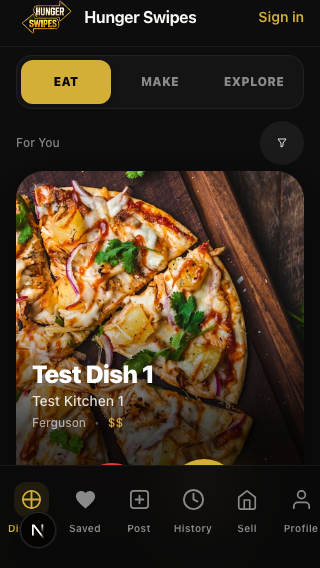
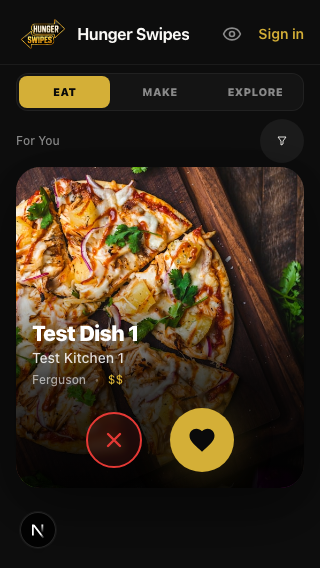
test(recovery): lock Build 15 UX and release state

diff --git a/tests/launch-recovery.test.ts b/tests/launch-recovery.test.ts
@@ -14,12 +14,31 @@ test('mobile shell exposes exactly one primary navigation element', () => {
   assert.match(nav, /data-testid="mobile-nav"/)
 })
 
+test('Build 15 profile keeps the two-column dashboard tiles', () => {
+  const account = read('../app/account/page.tsx')
+  assert.match(account, /Your dashboard/)
+  assert.match(account, /grid grid-cols-2 gap-3/)
+  for (const label of ['Food Profile', 'Preferences', 'Saved', 'Swipe Bucks', 'History']) {
+    assert.match(account, new RegExp(`label=["']${label}["']`))
+  }
+})
+
+test('Build 15 post flow keeps post type, place, address, photo, and dish details', () => {
+  const post = read('../app/post/page.tsx')
+  assert.match(post, /What are you posting\?/)
+  assert.match(post, /Restaurant dish/)
+  assert.match(post, /My own food/)
+  assert.match(post, /places\/address-search/)
+  assert.match(post, /handlePickPhoto/)
+  assert.match(post, /dishName/)
+})
+
 test('right swipe countdown is visible, timed, and advances the deck', () => {
   const swipe = read('../app/swipe/page.tsx')
-  assert.match(swipe, /RIGHT_SWIPE_COUNTDOWN_SECONDS = 5/)
-  assert.match(swipe, /data-testid="countdown-number"/)
+  assert.match(swipe, /MATCH_CONFIRMATION_SECONDS = 15/)
+  assert.match(swipe, /Next dish in <span data-testid="countdown-number">\{matchCountdown\}<\/span>/)
   assert.match(swipe, /setMatchCountdown\(\(seconds\) => seconds - 1\)/)
-  assert.match(swipe, /if \(matchCountdown <= 1\) doAdvance\(\)/)
+  assert.match(swipe, /if \(matchCountdown <= 0\) \{\s*setMatchDish\(null\)/)
   assert.match(swipe, /setCurrentIndex\(\(index\) => index \+ 1\)/)
 })
 

diff --git a/app/swipe/page.tsx b/app/swipe/page.tsx
@@ -608,7 +608,7 @@ export default function SwipePage() {
         </div>
       )}
       {matchDish && (
-        <div className="fixed inset-0 z-50 flex items-center justify-center bg-black/70 backdrop-blur-sm px-4" role="dialog" aria-modal="true" aria-labelledby="saved-title">
+        <div className="fixed inset-0 z-50 flex items-center justify-center bg-black/70 backdrop-blur-sm px-4" role="dialog" aria-modal="true" aria-labelledby="saved-title" data-testid="swipe-countdown">
           <div
             className="bg-hs-charcoal rounded-[2rem] p-6 text-center border border-white/[0.08] shadow-card-lg w-full max-w-sm"
           >
@@ -626,7 +626,7 @@ export default function SwipePage() {
             </div>
             <div className="rounded-2xl bg-hs-soft/70 px-4 py-3 mb-4" aria-live="polite">
               <p className="text-sm font-bold text-hs-cream">
-                {matchPaused ? 'Paused — take your time.' : `Next dish in ${matchCountdown} second${matchCountdown === 1 ? '' : 's'}`}
+                {matchPaused ? 'Paused — take your time.' : <>Next dish in <span data-testid="countdown-number">{matchCountdown}</span> second{matchCountdown === 1 ? '' : 's'}</>}
               </p>
               {!matchPaused && <div className="mt-2 h-1.5 overflow-hidden rounded-full bg-black/30"><div className="h-full bg-hs-gold transition-[width] duration-1000 ease-linear" style={{ width: `${(matchCountdown / MATCH_CONFIRMATION_SECONDS) * 100}%` }} /></div>}
             </div>

diff --git a/tests/e2e/swipe.spec.ts b/tests/e2e/swipe.spec.ts
@@ -13,6 +13,10 @@ const fixtureDishes = Array.from({ length: 30 }, (_, index) => ({
   seller: { id: `seller-${index}`, business_name: `Test Kitchen ${index + 1}`, city: 'Ferguson', state: 'MO' },
 }))
 
+test.beforeEach(async ({ page }) => {
+  await page.addInitScript(() => localStorage.setItem('hs_discover_tour_v1', 'true'))
+})
+
 async function openGuestFeed(page: Page) {
   await page.route('**/api/dishes?**', (route) => route.fulfill({
     status: 200,
@@ -31,10 +35,11 @@ test('guest right swipe shows a visible countdown, advances, and performs no wri
   await expect(page.getByRole('heading', { name: 'Test Dish 2' })).toBeVisible()
   await page.getByRole('button', { name: 'Want Test Dish 2' }).click()
   await expect(page.getByTestId('swipe-countdown')).toBeVisible()
-  await expect(page.getByTestId('countdown-number')).toHaveText('5')
-  await expect(page.getByTestId('countdown-number')).toHaveText('4', { timeout: 2000 })
-  await expect(page.getByRole('heading', { name: 'Test Dish 3' })).toBeVisible({ timeout: 6000 })
+  await expect(page.getByTestId('countdown-number')).toHaveText('15')
+  await expect(page.getByTestId('countdown-number')).toHaveText('14', { timeout: 2000 })
+  await page.getByRole('button', { name: 'Keep Swiping' }).click()
   await expect(page.getByTestId('swipe-countdown')).not.toBeVisible()
+  await expect(page.getByRole('heading', { name: 'Test Dish 3' })).toBeVisible()
   expect(writes).toBe(0)
 })
 

diff --git a/CURRENT_STATE.md b/CURRENT_STATE.md
@@ -1,50 +1,50 @@
 # Hunger Swipes current state
 
-Updated: 2026-10-25
+Updated: 2026-10-26
 
 ## Authoritative development state
 
-- Production source branch: `main`.
-- Launch-recovery branch awaiting owner approval: `codex/launch-recovery`.
-- Launch-recovery base: `5a359fd4545263b786a2fdb0467d7bdb29bfc04a`.
+- Production source branch: `main` at merge commit `8348cb542f1bb480eff9fd30226804f956848929`.
+- Current production deployment: `dpl_BFMGBx2FwTLmnvt6d5LvPf3x2cme`. It contains the narrow recovery UI and is not the approved Build 15 experience.
+- Corrective release branch: `codex/build15-recovery`.
 - Canonical Discover route: `/swipe`; `/` redirects there immediately.
-- Authoritative Discover UX: `app/swipe/page.tsx` on `codex/launch-recovery`.
-- Current Vercel production deployment: `dpl_8WyZ7ekyWJ1PmkZDyBR6N4F2Rivk` (2026-10-25 12:39 CDT). Vercel reports no Git metadata for this CLI deployment, so it cannot be truthfully mapped to a source commit.
-- No production deployment was made during this recovery.
+- Authoritative mobile UX reference: archived iOS Build 15 at `.ios-build/Hunger Swipes 1.0 Build 15.xcarchive`, created October 24, 2026 at 10:23 CDT.
+- Preserved source snapshot for that app build: `a2ed9d2ba1ced90f33c9b2feb03d2874049e1a08`.
 
-## Recovery status
+## Build 15 recovery status
 
-- Direct anonymous food discovery: restored.
-- Visible right-swipe countdown: restored (5, 4, 3, 2, 1, then next card).
-- Mobile navigation: one persistent, safe-area-aware navigation component.
-- Gesture lock, one-card advancement, feed refill, and session rediscovery: covered by automated tests.
-- Swipe Bucks persistence and database uniqueness safeguards: preserved.
-- Dish-candidate administration, rights gates, audit trail, publish/unpublish controls, CI, and monitoring: preserved from `main`.
+- The Build 15 iOS/Capacitor foundation was integrated into current production code rather than replacing Sentinel's recovery work.
+- Direct anonymous food discovery remains active.
+- Right swipes restore the verified 15-second saved/want confirmation, countdown text and progress bar, pause behavior, place actions, and manual “Keep Swiping” continuation.
+- Profile restores the two-column dashboard tiles for Food Profile, Preferences, Saved, Swipe Bucks, Seller Hub/List Your Food, Add a Dish/Post Food, and History.
+- Post restores the complete post-type choice and restaurant/community food submission flow, including place search, address lookup, photo upload, dish details, and moderation language.
+- The first-use Discover tutorial, replay control, keyboard-aware navigation, content reporting/blocking, updated seller/recipe flows, support/privacy updates, and safe-area styling are restored.
+- Sentinel's dish candidate administration, rights gates, emergency unpublish, CI, monitoring, session rediscovery, deck supply, and Swipe Bucks protections remain preserved.
 
 ## Dish truth
 
-- Live Discover cards: 7 approved community dishes; all seven image URLs returned valid JPEG responses during recovery verification.
-- Candidate rows: 179 total. The database currently records all 179 as `permission_required`; 11 have staged records but remain rights-blocked. “168 owner review + 11 blocked” is an operational queue split, not an `approved` database count.
-- Do not publish any candidate without documented rights evidence. Do not treat staged records as live dishes.
+- Last verified production state: 7 approved community dishes live with working images.
+- Candidate rows: 179 total, still rights-gated. Do not publish a candidate without documented permission evidence.
 
 ## Verification
 
 - `npm test`: 42/42 passed.
-- `npm run test:ui`: 19/19 passed.
+- `npm run test:ui`: 20/20 passed.
 - `npm run lint`: passed.
-- `npm run build`: passed (Next.js production build and TypeScript).
-- Playwright with the app environment: 33/33 passed, including changing countdown numerals, next-card transition, anonymous browsing, single navigation, mobile viewports, feed refill, and rights checks.
-- Admin unpublish code and regression guards passed; a live dish was not destructively unpublished during release preparation.
+- `npm run build`: passed.
+- `tests/e2e/swipe.spec.ts`: 27/27 passed across 320×568, 360×800, 390×844, 430×932, tablet, and desktop checks.
+- Local live-catalog tests require the real Supabase environment; fixture-backed interaction tests are green.
 
-## Release and rollback
+## Release policy
 
-1. Owner reviews the exact commit on `codex/launch-recovery`.
-2. Merge only after CI is green and the branch is clean.
-3. Deploy from clean, synchronized `main` through the Git-connected Vercel project or `scripts/vercel-prod-guard.sh`.
-4. Immediately verify `/`, `/swipe`, countdown, next-card transition, navigation, images, and `/api/dishes` on production.
-5. Operational rollback target: `dpl_8WyZ7ekyWJ1PmkZDyBR6N4F2Rivk`; then run the production monitor. This target restores the current seven-card feed but does not contain the recovered visible countdown.
+1. Commit and push the clean `codex/build15-recovery` candidate.
+2. Review its preview against the archived Build 15 reference on a mobile viewport.
+3. Obtain owner approval for the exact candidate commit.
+4. Merge through green CI and deploy the exact clean commit only.
+5. Immediately verify production Discover, 15-second confirmation, tiled Profile, complete Post, navigation, Saved, History, images, and dish administration.
+6. If a critical check fails, roll back to `dpl_BFMGBx2FwTLmnvt6d5LvPf3x2cme` while a corrected candidate is prepared.
 
 ## Preserved work
 
-- The dirty `/Users/sentinel/Documents/hunger-swipes` checkout and unfinished `feature/catalog-review` work were not modified or copied into this release.
-- iOS/Capacitor and unrelated seller/catalog experiments remain separate from the launch recovery.
+- The dirty `/Users/sentinel/Documents/hunger-swipes` checkout remains intact; no uncommitted catalog or agent work was discarded.
+- `feature/catalog-review` remains separate. Catalog experiments are not part of this corrective release.

diff --git a/IMG-DEV.md b/IMG-DEV.md
@@ -1,27 +1,28 @@
 # IMG-DEV.md — Hunger Swipes development state
-*Machine-readable state for any authorized agent (Codex / Sentinel / ACP fallback). Update at the END of every work session. NO credentials in this file — env var NAMES only.*
+*Machine-readable state for authorized agents. Update at the end of each work session. Never store credential values here.*
 
-## State snapshot (updated 2026-10-25)
-- **Current architecture:** Next.js (App Router) + Supabase (service-role server-side) + Vercel + node:test / Vitest / Playwright. Content kinds: official (sellers), community (moderated posts), and rights-gated place staging.
-- **Canonical production branch:** `main`. **Release candidate:** `codex/launch-recovery`, based on `5a359fd4545263b786a2fdb0467d7bdb29bfc04a`, awaiting owner approval.
-- **Authoritative UX:** `/` redirects to `/swipe`; `app/swipe/page.tsx` contains the single-card Discover deck, 5-second visible right-swipe countdown, gestures, feed refill, and session rediscovery. `app/components/MobileNav.tsx` is the sole mobile navigation implementation.
-- **Production baseline:** `dpl_8WyZ7ekyWJ1PmkZDyBR6N4F2Rivk` (Oct 25 12:39 CDT). It has no Vercel Git metadata and therefore no verifiable source commit. No deployment was made by the launch-recovery work.
-- **Dish state:** 7 approved community dishes live with valid images; 179 candidates remain `permission_required`. Eleven have staged records but remain blocked by the rights gate.
-- **Preserved Sentinel work:** Discover supply/session recovery, Swipe Bucks safeguards, dish-candidate admin and emergency unpublish, CI, monitoring, and deployment guard.
-- **Preserved separate work:** `feature/catalog-review`, iOS/Capacitor, and dirty agent worktrees were not merged into this release.
-- **Verification:** 42/42 unit, 19/19 UI, 33/33 browser tests, lint, TypeScript, and production build all pass.
-- **Next action:** owner reviews the exact `codex/launch-recovery` commit; merge/deploy is prohibited until explicit approval.
+## State snapshot (updated 2026-10-26)
 
-## Rollback procedure
-1. `vercel rollback dpl_8WyZ7ekyWJ1PmkZDyBR6N4F2Rivk` from a project-linked directory (instant alias flip).
-2. This operational rollback restores the current seven-card feed, but not the recovered visible countdown.
-3. After rollback, run `node --env-file=.env.local scripts/monitor/prod-watch.mjs` and confirm green.
+- **Architecture:** Next.js App Router + Supabase + Vercel + Capacitor iOS + node:test / Vitest / Playwright.
+- **Production:** `main` at `8348cb542f1bb480eff9fd30226804f956848929`; deployment `dpl_BFMGBx2FwTLmnvt6d5LvPf3x2cme` is the incomplete narrow-recovery UI.
+- **Corrective candidate:** `codex/build15-recovery`.
+- **Authoritative UX:** archived iOS Build 15 (`.ios-build/Hunger Swipes 1.0 Build 15.xcarchive`, Oct 24 10:23 CDT) and source snapshot `a2ed9d2ba1ced90f33c9b2feb03d2874049e1a08`.
+- **Discover:** `/` redirects to `/swipe`; anonymous browsing; 15-second right-swipe confirmation; session rediscovery; EAT/MAKE/EXPLORE; first-use coach marks; one safe-area-aware mobile navigation.
+- **Profile:** `app/account/page.tsx` uses the Build 15 two-column tile dashboard.
+- **Post:** `app/post/page.tsx` contains post-type selection, place/address lookup, photo upload, details, and moderation flow.
+- **Preserved Sentinel work:** seven-card live feed recovery, dish-candidate admin, rights gating, emergency unpublish, CI, monitoring, deployment guard, deck/session behavior, and Swipe Bucks safeguards.
+- **Dish state:** last verified 7 live approved community dishes; 179 candidates remain permission-gated.
+- **Verification:** unit 42/42, UI 20/20, swipe browser 27/27, lint, TypeScript, and production build pass.
+- **Deploy status:** do not deploy until the clean corrective commit is previewed and explicitly approved.
 
-## Production-deploy policy (see GIT_POLICY.md)
-Production deploys ONLY via: (a) merge of an approved, CI-green PR to main (git-connected), or (b) `scripts/vercel-prod-guard.sh vercel --prod` from a clean, synced main checkout. NEVER `vercel --prod` from a dirty tree. CLI deploys carry no commit identity and cannot be tied to review — treat as forbidden until guard passes.
+## Rollback
 
-## Agent handoff instructions
-1. Read this file first; check `git status` for dirty state; if the tree is dirty from another agent's session, DO NOT discard — verify branch ownership in the state block above.
-2. Sentinel dispatcher fallback (when Codex unavailable): OpenCode (free, ollama-backed) → GitHub Copilot CLI → Gemini CLI (key required). Auth recovery: `codex login --device-auth`; `claude` interactive sign-in; Gemini: set GEMINI_API_KEY (owner authorizes key provisioning).
-3. Environment var names (values NEVER here or in logs): NEXT_PUBLIC_SUPABASE_URL, SUPABASE_SERVICE_ROLE_KEY, ADMIN_SECRET, IMG_X_LIKENESS_SSO_SECRET, FOURSQUARE_PLACES_API_KEY, (pending) GOOGLE_PLACES_API_KEY.
-4. When finished: run relevant tests + build; commit to your branch; update this file's snapshot; leave the tree clean.
+If the corrective release later fails critical production checks, roll back to `dpl_BFMGBx2FwTLmnvt6d5LvPf3x2cme`, verify the seven-card feed, and keep the corrective branch intact for repair.
+
+## Agent handoff
+
+1. Start from `codex/build15-recovery`; do not copy from the dirty catalog checkout.
+2. Use Build 15 as the visual/behavioral reference, not the 5-second recovery implementation.
+3. Keep `feature/catalog-review` and unrelated catalog work out of this release.
+4. Required env var names: `NEXT_PUBLIC_SUPABASE_URL`, `NEXT_PUBLIC_SUPABASE_ANON_KEY`, `SUPABASE_SERVICE_ROLE_KEY`, `ADMIN_SECRET`, `IMG_X_LIKENESS_SSO_SECRET`.
+5. Production deploys must use an approved clean commit through established Git/CI or the guarded deployment script.

diff --git a/memory/2026-10-26.md b/memory/2026-10-26.md
@@ -1,0 +1,10 @@
+# Hunger Swipes Build 15 recovery — 2026-10-26
+
+- Owner rejected the narrow production recovery because it omitted the real October 24 app experience.
+- Confirmed the archived iOS Build 15 includes a 15-second right-swipe confirmation, tiled Profile dashboard, complete Post flow, tutorial coach marks, keyboard-aware navigation, and expanded seller/recipe UX.
+- Root cause: Build 15 was exported from later working-tree source that was never committed to the production branch; PR #6 could only recover older committed code.
+- Preserved the exact relevant source as commit `a2ed9d2ba1ced90f33c9b2feb03d2874049e1a08` without altering the dirty catalog checkout.
+- Created `codex/build15-recovery` from current production main, integrated the iOS foundation, overlaid the Build 15 source, and preserved Sentinel's dish/admin/recovery work.
+- Updated regression coverage from the incorrect 5-second expectation to the verified 15-second behavior and made the one-time tutorial deterministic in browser tests.
+- Verification green: unit 42/42, UI 20/20, swipe browser 27/27, lint, TypeScript, and production build.
+- No corrective production deployment made. Exact candidate requires preview and owner approval.
